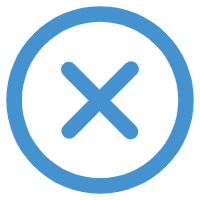
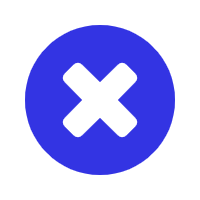
update ui

diff --git a/iann/app.py b/iann/app.py
@@ -2,6 +2,8 @@ import os
 import os.path as osp
 from functools import partial
 
+from PySide2.QtGui import QIcon
+
 from qtpy import QtGui, QtCore, QtWidgets
 from qtpy.QtWidgets import QMainWindow, QMessageBox, QTableWidgetItem
 from qtpy.QtGui import QImage, QPixmap
@@ -85,7 +87,7 @@ class APP_IANN(QMainWindow, Ui_IANN):
         print("recentFiles", self.recentFiles)
         files = [f for f in self.recentFiles if f != self.currentPath and exists(f)]
         for i, f in enumerate(files):
-            icon = util.newIcon("next")
+            icon = util.newIcon("File")
             action = QtWidgets.QAction(
                 icon, "&%d %s" % (i + 1, QtCore.QFileInfo(f).fileName()), self
             )
@@ -108,30 +110,28 @@ class APP_IANN(QMainWindow, Ui_IANN):
             self.tr("&下一张"),
             partial(self.turnImg, 1),
             shortcuts["turn_next"],
-            "next",
+            "Next",
             self.tr("翻到下一张图片"),
         )
         turn_prev = action(
             self.tr("&上一张"),
             partial(self.turnImg, -1),
             shortcuts["turn_prev"],
-            "prev",
+            "Last",
             self.tr("翻到上一张图片"),
         )
         open_image = action(
             self.tr("&打开图像"),
             self.openImage,
             shortcuts["open_image"],
-            # TODO: 搞个图
-            "",
+            "OpenImage",
             self.tr("打开一张图像进行标注"),
         )
         open_folder = action(
             self.tr("&打开文件夹"),
             self.openFolder,
             shortcuts["open_folder"],
-            # TODO: 搞个图
-            "",
+            "OpenFolder",
             self.tr("打开一个文件夹下所有的图像进行标注"),
         )
         open_recent = action(
@@ -142,85 +142,88 @@ class APP_IANN(QMainWindow, Ui_IANN):
             "",
             self.tr("打开一个文件夹下所有的图像进行标注"),
         )
+        # model_loader = action(
+        #     self.tr("&选择模型参数"),
+        #     self.loadModel,
+        #     shortcuts["load_model"],
+        #     "Model",
+        #     self.tr("加载一个模型参数"),
+        # )
         change_output_dir = action(
             self.tr("&改变标签保存路径"),
             self.changeOutputDir,
             shortcuts["change_output_dir"],
-            # TODO: 搞个图
-            "",
+            "ChangeLabelPath",
             self.tr("打开一个文件夹下所有的图像进行标注"),
         )
         quick_start = action(
             self.tr("&快速上手"),
             self.toBeImplemented,
             None,
-            # TODO: 搞个图
-            "",
+            "Use",
             self.tr("快速上手介绍"),
         )
         about = action(
             self.tr("&关于软件"),
             self.toBeImplemented,
             None,
-            # TODO: 搞个图
-            "",
+            "About",
             self.tr("关于这个软件和开发团队"),
         )
         grid_ann = action(
-            self.tr("&N^2宫格标注"),
+            self.tr("&N²宫格标注"),
             self.toBeImplemented,
             None,
-            # TODO: 搞个图
-            "",
-            self.tr("使用N^2宫格进行细粒度标注"),
+            "N2",
+            self.tr("使用N²宫格进行细粒度标注"),
         )
         finish_object = action(
             self.tr("&完成当前目标"),
             self.finishObject,
             shortcuts["finish_object"],
-            "finish",
+            "Ok",
             self.tr("完成当前目标的标注"),
         )
         clear = action(
             self.tr("&清除所有标注"),
             self.undoAll,
             shortcuts["clear"],
-            "clear",
+            "Clear",
             self.tr("清除所有标注信息"),
         )
         undo = action(
             self.tr("&撤销"),
             self.undoClick,
             shortcuts["undo"],
-            "undo",
+            "Undo",
             self.tr("撤销一次点击"),
         )
         redo = action(
             self.tr("&重做"),
             self.toBeImplemented,
             shortcuts["redo"],
-            "redo",
+            "Redo",
             self.tr("重做一次点击"),
         )
         save = action(
             self.tr("&保存"),
             self.saveLabel,
             "",
-            "redo",
+            "Save",
             self.tr("保存图像标签"),
         )
         save_as = action(
             self.tr("&另存为"),
             partial(self.saveLabel, True),
             "",
-            "redo",
+            "OtherSave",
             self.tr("指定标签保存路径"),
         )
         auto_save = action(
             self.tr("&自动保存"),
             self.toggleAutoSave,
             "",
-            None,
+            "AutoSave",
             self.tr("翻页同时自动保存"),
             checkable=True,
         )
@@ -230,56 +233,57 @@ class APP_IANN(QMainWindow, Ui_IANN):
             self.tr("&近期图片"),
             self.toBeImplemented,
             "",
-            "redo",
+            "RecentDocuments",
             self.tr("近期打开的图片"),
         )
         close = action(
             self.tr("&关闭"),
             self.toBeImplemented,
             "",
-            "redo",
+            "End",
             self.tr("关闭当前图像"),
         )
         connected = action(
             self.tr("&连通块"),
             self.toBeImplemented,
             "",
-            "redo",
+            # TODO: 搞个图
+            "",
             self.tr(""),
         )
         quit = action(
             self.tr("&退出"),
             self.close,
             "",
-            "redo",
+            "Close",
             self.tr("退出软件"),
         )
         save_label = action(
             self.tr("&保存标签列表"),
             self.saveLabelList,
             "",
-            "redo",
+            "ExportLabel",
             self.tr("将标签保存成标签配置文件"),
         )
         load_label = action(
             self.tr("&加载标签列表"),
             self.loadLabelList,
             "",
-            "redo",
+            "ImportLabel",
             self.tr("从标签配置文件中加载标签"),
         )
         clear_label = action(
             self.tr("&清空标签列表"),
             self.clearLabelList,
             "",
-            "redo",
+            "ClearLabel",
             self.tr("清空所有的标签"),
         )
         shortcuts = action(
             self.tr("&快捷键列表"),
             self.showShortcuts,
             "",
-            "redo",
+            "Shortcut",
             self.tr("查看所有快捷键"),
         )
         recent_files = QtWidgets.QMenu(self.tr("近期文件"))
@@ -292,6 +296,7 @@ class APP_IANN(QMainWindow, Ui_IANN):
                 open_image,
                 open_folder,
                 change_output_dir,
+                # model_loader,
                 recent_files,
                 None,
                 save,
@@ -406,7 +411,7 @@ class APP_IANN(QMainWindow, Ui_IANN):
         table.setItem(idx, 2, colorItem)
 
         delItem = QTableWidgetItem()
-        delItem.setIcon(util.newIcon("clear"))
+        delItem.setIcon(util.newIcon("Clear"))
         delItem.setTextAlignment(Qt.AlignCenter)
         delItem.setFlags(QtCore.Qt.ItemIsEnabled)
         table.setItem(idx, 3, delItem)
@@ -770,3 +775,6 @@ class APP_IANN(QMainWindow, Ui_IANN):
     @property
     def segThresh(self):
         return self.sldThresh.value() / 10
+
+    def loadModel(self):
+        print('load model')

diff --git a/iann/ui.py b/iann/ui.py
@@ -1,3 +1,4 @@
+from PySide2.QtGui import QIcon
 from qtpy import QtCore, QtGui, QtWidgets
 from qtpy.QtCore import Qt
 from qtpy.QtWidgets import QGraphicsView
@@ -111,7 +112,7 @@ class Ui_IANN(object):
         self.statusbar.setObjectName("statusbar")
         self.statusbar.setStyleSheet("QStatusBar::item {border: none;}")
         MainWindow.setStatusBar(self.statusbar)
-        self.statusbar.addPermanentWidget(self.show_logo("iann/resource/paddle.png"))
+        self.statusbar.addPermanentWidget(self.show_logo("iann/resource/Paddle.png"))
         ## -----
         ## -- 图形区域 --
         ImageRegion = QtWidgets.QHBoxLayout(CentralWidget)
@@ -165,13 +166,18 @@ class Ui_IANN(object):
         # 模型加载
         ModelRegion = QtWidgets.QVBoxLayout()
         ModelRegion.setObjectName("ModelRegion")
-        labShowSet = self.create_text(CentralWidget, "labShowSet", "模型选择")
+        labShowSet = self.create_text(CentralWidget, "labShowSet", "网络选择")
         ModelRegion.addWidget(labShowSet)
         combo = QtWidgets.QComboBox(self)
-        for model in models:
-            combo.addItem(model.name)
+        # for model in models:
+        #     combo.addItem(model.name)
+        # 网络参数
+        combo.addItems(['HRNet', 'Deeplab'])
         self.comboModelSelect = combo
         ModelRegion.addWidget(self.comboModelSelect)  # 模型选择
+        self.btnParamsSelect = p_create_button("btnParamsLoad", "加载网络参数", \
+                                               "resource/Model.png", "Ctrl+D")
+        ModelRegion.addWidget(self.btnParamsSelect)  # 模型选择
         SetRegion.addLayout(ModelRegion)
         SetRegion.setStretch(0, 1)
         # 数据列表
@@ -193,7 +199,7 @@ class Ui_IANN(object):
         # self.labelListTable.setMinimumWidth()
         self.labelListTable.setObjectName("labelListTable")
         listRegion.addWidget(self.labelListTable)
-        self.btnAddClass = p_create_button("btnAddClass", "添加标签")
+        self.btnAddClass = p_create_button("btnAddClass", "添加标签", "resource/Label.png")
         listRegion.addWidget(self.btnAddClass)
         SetRegion.addLayout(listRegion)
         SetRegion.setStretch(1, 20)
@@ -222,7 +228,7 @@ class Ui_IANN(object):
         SetRegion.addLayout(ShowSetRegion)
         SetRegion.setStretch(2, 1)
         # 保存
-        self.btnSave = p_create_button("btnSave", "保存", "Ctrl+S")
+        self.btnSave = p_create_button("btnSave", "保存", "resource/Save.png", "Ctrl+S")
         SetRegion.addWidget(self.btnSave)
         SetRegion.setStretch(3, 1)
         # dock设置完成
@@ -242,7 +248,7 @@ class Ui_IANN(object):
         return text
 
     ## 创建按钮
-    def create_button(self, parent, btn_name, btn_text, curt=None):
+    def create_button(self, parent, btn_name, btn_text, ico_path=None, curt=None):
         # 创建和设置按钮
         sizePolicy = QtWidgets.QSizePolicy(
             QtWidgets.QSizePolicy.Minimum, QtWidgets.QSizePolicy.Fixed
@@ -255,6 +261,8 @@ class Ui_IANN(object):
         btn.setSizePolicy(sizePolicy)
         btn.setMinimumSize(min_size)
         btn.setObjectName(btn_name)
+        if ico_path is not None:
+            btn.setIcon(QtGui.QIcon(ico_path))
         btn.setText(btn_text)
         if curt is not None:
             btn.setShortcut(curt)
